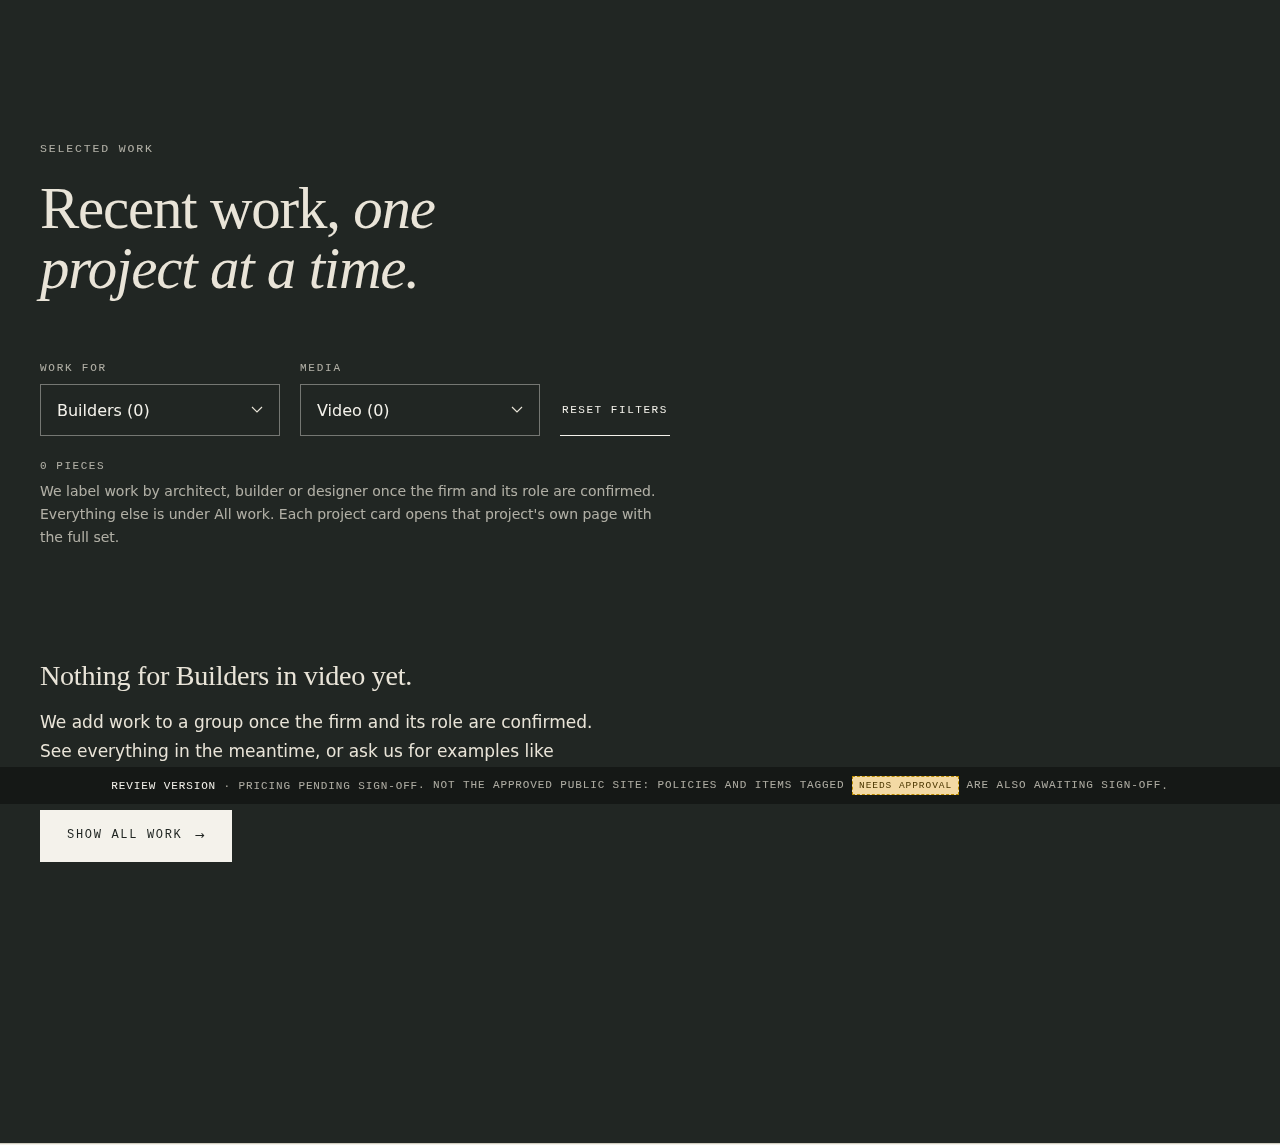
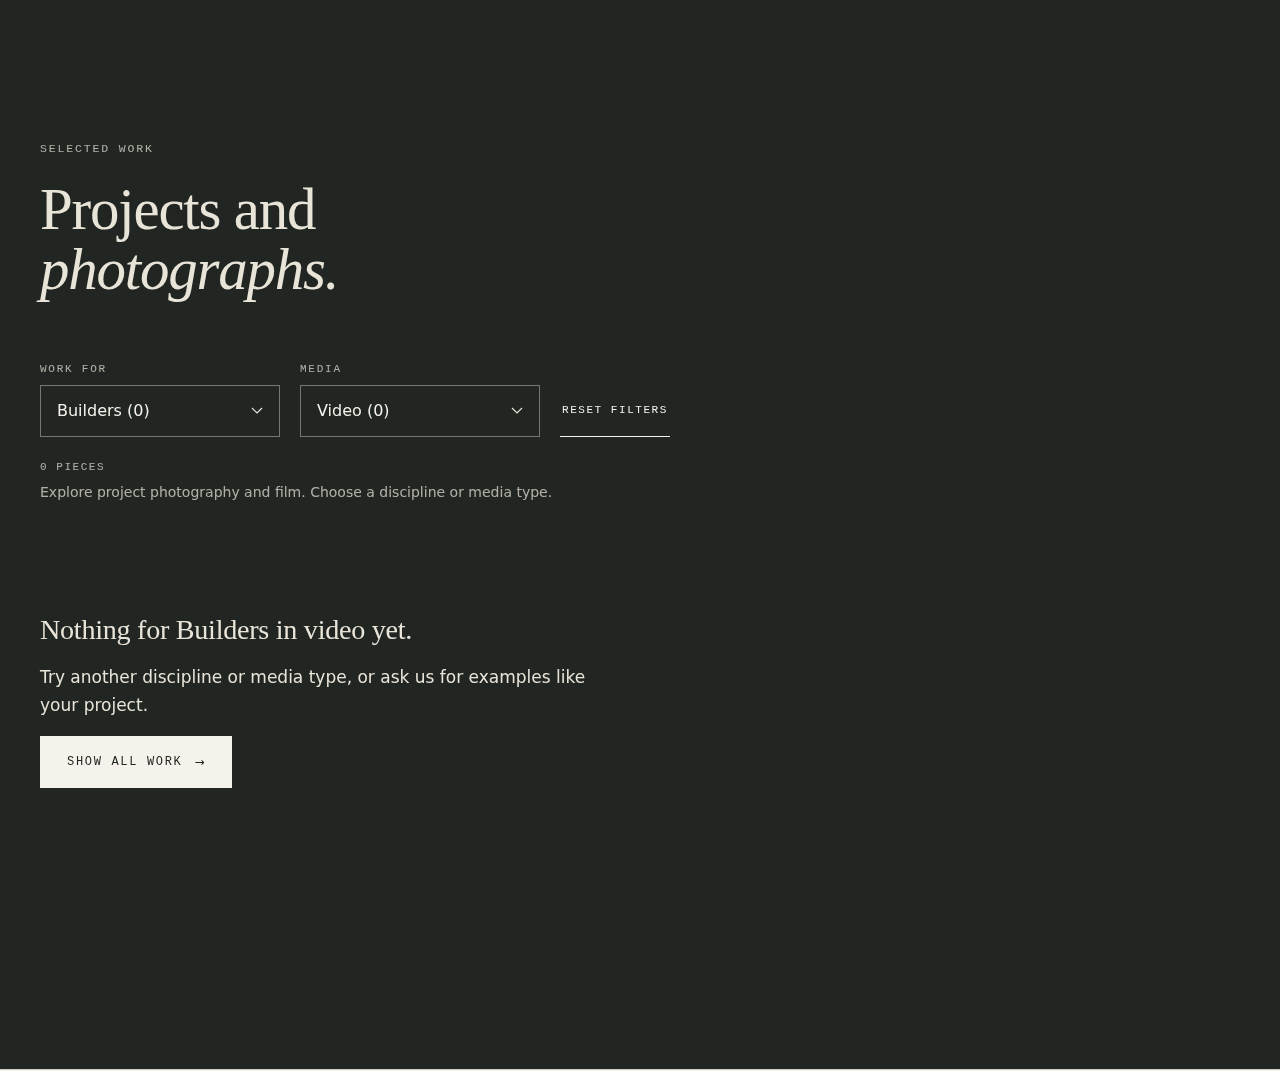
Architecture & design gallery refinements (Codex review of bdfe4d0)
- Visitor-facing copy only: "Explore project photography and film. Choose a
  discipline or media type."; empty state invites another filter or a
  conversation; no tagging-process language.
- 99 Hedges Lane grouped as one project (/architecture-design/99-hedges-lane)
  from its three approved address records: one film lead card in the gallery,
  photos on the project page; no client, role or outcome stated.
- Cards say what they are: "Project · N pieces" with View project, or
  "Single photo"; only project cards link to a page.
- Phones: one filtered result fills the column; several stay two-up; first
  batch 6.
- Review strip now sits in the page flow above the header (never fixed over
  content); the overlay header clears it until the page scrolls.
- Unit 25/25, e2e 52/52, a11y no issues, reflow ok, check:media 111/111,
  legacy 21/21.

Claude-Session: https://claude.ai/code/session_01QdXDHTFB7SVkVxiv2k6vdC

diff --git a/src/pages.js b/src/pages.js
@@ -759,6 +759,7 @@ ${agentMonthly.length ? `<section class="section section--tint">
   const archTypes = TYPE_FILTERS.filter((t) => t.id !== 'drone');
   const archTypeCounts = optionCounts(archFacts, { seg: '' }, 'type', archTypes.map((t) => t.id));
   const archVideo = archGallery.find((m) => m.type === 'video');
+  const projCount = (pr) => archMedia.filter((x) => x.project === pr.slug).length;
   const archCard = (m, i) => {
     const pr = m.project && projectBySlug[m.project] && visible(projectBySlug[m.project]) ? projectBySlug[m.project] : null;
     const kind = m.type === 'video' ? 'video' : 'image';
@@ -767,7 +768,7 @@ ${agentMonthly.length ? `<section class="section section--tint">
         <img src="${esc(galThumb(m))}" alt="${kind === 'video' ? '' : esc(m.alt || m.title)}" loading="lazy" decoding="async">
         ${kind === 'video' ? playIcon : ''}
       </button>
-      <div class="gcard__meta"><p class="gcard__title">${pr ? `<a href="${projectPath(pr)}" data-track="project_click" data-track-location="arch_gallery">${esc(pr.client || pr.title)}</a>` : esc(m.title)}</p><p class="gcard__sub">${esc([(pr?.location || m.location), kind === 'video' ? 'Film' : 'Photo', ...(pr ? segmentsOf(m, projectBySlug).map((id) => segOptions.find((x) => x.id === id)?.label.replace(/s$/, '')) : [])].filter(Boolean).join(' · '))}${pr ? ` · <a class="gcard__go" href="${projectPath(pr)}" aria-label="View the ${esc(pr.client || pr.title)} project">View project →</a>` : ''}</p></div>
+      <div class="gcard__meta"><p class="gcard__title">${pr ? `<a href="${projectPath(pr)}" data-track="project_click" data-track-location="arch_gallery">${esc(pr.client || pr.title)}</a>` : esc(m.title)}</p><p class="gcard__sub">${esc([(pr?.location || m.location), pr ? (projCount(pr) > 1 ? `Project · ${projCount(pr)} pieces` : 'Project') : `Single ${kind === 'video' ? 'film' : 'photo'}`, ...(pr ? segmentsOf(m, projectBySlug).map((id) => segOptions.find((x) => x.id === id)?.label.replace(/s$/, '')) : [])].filter(Boolean).join(' · '))}${pr ? ` · <a class="gcard__go" href="${projectPath(pr)}" aria-label="View the ${esc(pr.client || pr.title)} project">View project →</a>` : ''}</p></div>
     </article>`;
   };
   pages['/architecture-design'] = {
@@ -805,16 +806,16 @@ ${agentMonthly.length ? `<section class="section section--tint">
     <h2 class="h2 reveal" id="arch-story-h">Pick the story that wins <em>the next project.</em></h2>
     <div class="story-guide">
       <div class="story-guide__item reveal">${archFig(archPairIds.photo, { sizes: '(min-width: 1000px) 30vw, 100vw', cls: 'story-guide__fig' })}<p class="story-guide__n">Project photography</p><h3 class="h4">When the finished work has to speak for itself.</h3><p>Your portfolio, website, proposals and award or press submissions. Complete coverage of the spaces plus the details that show quality. For most finished projects, this is the place to start.</p></div>
-      <div class="story-guide__item reveal">${archVideo ? `<a class="story-guide__film" href="?type=video#portfolio" data-track="gallery_filter" data-track-location="arch_story_film"><span class="still still--horizontal"><img src="${esc(galThumb(archVideo))}" alt="" loading="lazy" decoding="async">${playIcon}</span><span class="story-guide__filmcap">Watch the ${esc(archVideo.title.split(':')[0])} film in the gallery</span></a>` : ''}<p class="story-guide__n">Project film</p><h3 class="h4">When how it feels matters as much as how it looks.</h3><p>Movement through the spaces, the light as it changes, and the craft or process behind them. A strong fit for signature projects and for social channels where people watch rather than scroll past.</p></div>
+      <div class="story-guide__item reveal">${archVideo ? `<a class="story-guide__film" href="?type=video#portfolio" data-track="gallery_filter" data-track-location="arch_story_film"><span class="still still--horizontal"><img src="${esc(galThumb(archVideo))}" alt="" loading="lazy" decoding="async">${playIcon}</span><span class="story-guide__filmcap">Watch the ${esc(archVideo.project && projectBySlug[archVideo.project] ? projectBySlug[archVideo.project].title : archVideo.title.split(':')[0])} film below</span></a>` : ''}<p class="story-guide__n">Project film</p><h3 class="h4">When how it feels matters as much as how it looks.</h3><p>Movement through the spaces, the light as it changes, and the craft or process behind them. A strong fit for signature projects and for social channels where people watch rather than scroll past.</p></div>
       <div class="story-guide__item reveal"><p class="story-guide__n">Brand story and interviews</p><h3 class="h4">When clients hire you as much as the work.</h3><p>Your philosophy, how you work with clients and why you do it, told by you on camera. Worth it when the relationship is what wins the job. It is not automatic for every project.</p></div>
     </div>
     <p class="story-guide__note">Not sure? Start with project proof. If a brand story makes sense later, we can build on the same coverage. When they are part of the agreed scope, one planned shoot can serve your website, proposals, social channels and submissions.</p>
   </div>
 </section>
 
-<section class="section section--ink on-dark regallery regallery--arch" id="portfolio" aria-labelledby="ag-h" data-regallery data-where="architecture" data-player="inline" data-batch="8" data-batch-phone="4">
+<section class="section section--ink on-dark regallery regallery--arch" id="portfolio" aria-labelledby="ag-h" data-regallery data-where="architecture" data-player="inline" data-batch="8" data-batch-phone="6">
   <div class="wrap">
-    <div class="section-head"><div><p class="eyebrow">Selected work</p><h2 class="h2 reveal" id="ag-h">Recent work, <em>one project at a time.</em></h2></div></div>
+    <div class="section-head"><div><p class="eyebrow">Selected work</p><h2 class="h2 reveal" id="ag-h">Projects and <em>photographs.</em></h2></div></div>
     <form class="filters filters--inline" data-rg-filters aria-label="Filter architecture and design work" onsubmit="return false">
       ${segLive.length ? `<div class="filters__field"><label for="ag-segment">Work for</label>
         <select id="ag-segment" name="segment"><option value="">All work</option>${join(segLive, (x) => `<option value="${x.id}">${esc(x.label)} (${segCounts[x.id]})</option>`)}</select></div>` : ''}
@@ -823,11 +824,11 @@ ${agentMonthly.length ? `<section class="section section--tint">
       <button type="reset" class="filters__clear" hidden>Reset filters</button>
     </form>
     <p class="filters__count" id="ag-count" aria-live="polite">${archGallery.length} pieces</p>
-    <p class="regallery__note">We label work by architect, builder or designer once the firm and its role are confirmed. Everything else is under All work. Each project card opens that project's own page with the full set.</p>
+    <p class="regallery__note">Explore project photography and film. Choose a discipline or media type.</p>
     <div class="regallery__grid" id="ag-grid">${join(archGallery, archCard)}</div>
     <div class="empty" id="ag-empty" hidden>
       <p class="h3" id="ag-empty-title">Nothing matches this filter yet.</p>
-      <p>We add work to a group once the firm and its role are confirmed. See everything in the meantime, or ask us for examples like yours.</p>
+      <p>Try another discipline or media type, or ask us for examples like your project.</p>
       <p><button type="button" class="btn btn--gold" data-rg-show-all>Show all work</button></p>
     </div>
     <div class="regallery__more"><button type="button" class="btn btn--light" id="ag-more" hidden>Load more</button></div>

diff --git a/src/assets/styles.css b/src/assets/styles.css
@@ -80,7 +80,7 @@ a { color: inherit; text-decoration-thickness: 1px; text-underline-offset: 4px; 
 .actions { display: flex; flex-wrap: wrap; align-items: center; gap: 18px 32px; }
 
 /* ---------- Review markers ---------- */
-.review-bar { position: fixed; left: 0; right: 0; bottom: 0; z-index: 60; background: var(--charcoal-3); color: var(--on-dark-muted); font: 400 11px/1.5 var(--mono); letter-spacing: .08em; text-transform: uppercase; padding: 9px var(--gutter); text-align: center; }
+.review-bar { position: relative; z-index: 60; background: var(--charcoal-3); color: var(--on-dark-muted); font: 400 11px/1.5 var(--mono); letter-spacing: .08em; text-transform: uppercase; padding: 9px var(--gutter); text-align: center; }
 .review-bar strong { color: var(--ivory); font-weight: 400; }
 .needs-approval { display: inline-block; vertical-align: middle; font: 400 9.5px/1 var(--mono); letter-spacing: .1em; text-transform: uppercase; padding: 4px 6px; background: #f3d9a4; color: #4a3600; border: 1px dashed #b98a00; white-space: nowrap; }
 
@@ -112,7 +112,9 @@ a { color: inherit; text-decoration-thickness: 1px; text-underline-offset: 4px; 
 /* Header over a full-bleed image: transparent until scrolled */
 .has-overlay .site-header { position: fixed; left: 0; right: 0; background: transparent; border-color: transparent; color: var(--ivory); backdrop-filter: none; -webkit-backdrop-filter: none; }
 .has-overlay .site-header.is-scrolled, .has-overlay.menu-open .site-header { background: rgba(244, 242, 235, 0.95); border-color: var(--line); color: var(--charcoal); backdrop-filter: saturate(1.3) blur(12px); -webkit-backdrop-filter: saturate(1.3) blur(12px); }
-.has-overlay .review-bar + .site-header { top: 0; }
+/* Review builds: the review strip sits in the page flow above the header, so it never covers content (Codex, Sep 27). */
+.has-overlay .review-bar + .site-header { top: var(--rb-top, 34px); transition: top .25s var(--ease), background-color .4s var(--ease), border-color .4s var(--ease), color .4s var(--ease); }
+.has-overlay .review-bar + .site-header.is-scrolled { top: 0; }
 
 @media (max-width: 1100px) {
   .menu-toggle { display: inline-flex; }
@@ -718,10 +720,11 @@ button.gcard__open:hover .sw-card__play { transform: scale(1.06); }
 .hero-credit--home { position: absolute; left: 0; right: 0; bottom: clamp(16px, 3vw, 36px); margin: 0 auto; pointer-events: none; z-index: 2; }
 @media (max-width: 700px) { .hero-credit--home { display: none; } }
 /* Review builds: keep hero controls and credits clear of the fixed review bar. */
+.has-review-bar { --review-bar-h: 0px; }
 .has-review-bar .hero .motion-toggle, .has-review-bar .page-hero .motion-toggle { bottom: calc(clamp(16px, 3vw, 36px) + var(--review-bar-h, 56px)); }
 .has-review-bar .hero-credit--home { bottom: calc(clamp(16px, 3vw, 36px) + var(--review-bar-h, 56px)); }
 .has-review-bar .hero__inner, .has-review-bar .page-hero--video .page-hero__inner { padding-bottom: calc(clamp(56px, 8vh, 96px) + var(--review-bar-h, 56px)); }
-@media (max-width: 700px) { .has-review-bar { --review-bar-h: 36px; } }
+@media (max-width: 700px) { .has-review-bar { --review-bar-h: 0px; } }
 /* Hero films move and can be bright: a deeper left-side scrim keeps the headline and lede at AA contrast. */
 .page-hero--video .page-hero__media::after, .hero--video .hero__media::after { background: linear-gradient(90deg, rgba(21,24,22,.88) 0%, rgba(21,24,22,.66) 45%, rgba(21,24,22,.18) 82%), linear-gradient(180deg, rgba(21,24,22,.5) 0%, rgba(21,24,22,0) 24%, rgba(21,24,22,0) 55%, rgba(21,24,22,.78) 100%); }
 @media (max-width: 700px) { .page-hero--video .page-hero__media::after, .hero--video .hero__media::after { background: linear-gradient(180deg, rgba(21,24,22,.55) 0%, rgba(21,24,22,.4) 30%, rgba(21,24,22,.92) 72%); } }
@@ -888,3 +891,5 @@ button.gcard__open:hover .sw-card__play { transform: scale(1.06); }
 @media (max-width: 800px) { .pair { grid-template-columns: 1fr; } .pair__media--sticky { position: static; } #why .why-list { grid-template-columns: 1fr; } }
 @media (max-width: 620px) { .regallery--arch .regallery__grid { grid-template-columns: repeat(2, minmax(0, 1fr)); gap: 16px 12px; } .regallery--arch .gcard__sub { font-size: 12.5px; } }
 .pair-fig figcaption a { display: inline-block; padding: 4px 0; min-height: 24px; }
+/* One filtered result on a phone uses a comfortable full column; several keep two compact columns. */
+@media (max-width: 620px) { .regallery--arch .regallery__grid[data-shown="1"] { grid-template-columns: minmax(0, 1fr); } .regallery--arch .regallery__grid[data-shown="1"] .gcard__title { font-size: 18px; } }

diff --git a/src/assets/site.js b/src/assets/site.js
@@ -178,3 +178,6 @@ if (ambients.length) {
   setMotion(motionOff, false);
 }
 
+
+// Review builds: keep the overlay header just below the in-flow review strip until the page scrolls.
+{ const rb = document.querySelector('.review-bar'); if (rb) { const set = () => document.body.style.setProperty('--rb-top', `${rb.offsetHeight}px`); set(); addEventListener('resize', set, { passive: true }); } }

diff --git a/src/assets/re-gallery.js b/src/assets/re-gallery.js
@@ -101,6 +101,7 @@ for (const root of document.querySelectorAll('[data-regallery]')) {
       card.hidden = !show;
     }
     const n = current.length;
+    grid.dataset.shown = String(on.size);
     count.textContent = n === 1 ? '1 piece' : `${n} pieces`;
     empty.hidden = n > 0;
     if (!n) {
